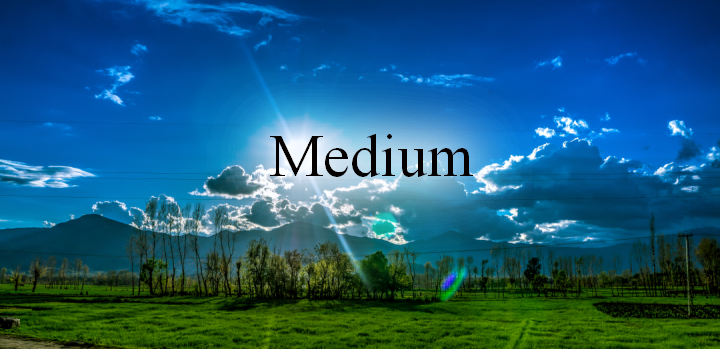
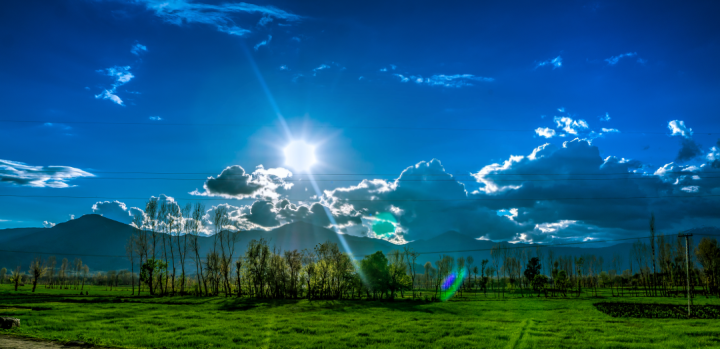
update

Changed region(s): [[0.3361, 0.2865, 0.7028, 0.6304]]

diff --git a/lesson11/css/small.css b/lesson11/css/small.css
@@ -156,7 +156,7 @@ body {
 /*/
     background-image: url("https://images.pexels.com/photos/1968740/pexels-photo-1968740.jpeg?auto=compress&cs=tinysrgb&dpr=3&h=750&w=1260");
 /*/
-    background-image: url("https://garlonuss.github.io/wdd230/lesson6/images/wdd230_image_franklin_small.png");
+    background-image: url("https://garlonuss.github.io/wdd230/lesson11/images/wdd230_image_franklin_small.png");
     background-position: center;
     background-size: 100%;
     width: 100%;
@@ -171,7 +171,7 @@ body {
     min-width: 50%;
     background-color: rgba(255, 255, 255, 0.5);
     margin: auto;
-    font-size: 10px;
+    font-size: 12px;
     border-radius: 0 0 7px 7px;
   }
   .stat {
@@ -224,16 +224,18 @@ body {
     position: absolute;
     top: 0;
     left: 0;
-    opacity: .65;
+    opacity: .55;
   }
   .wkd {
     position: absolute;
     animation: glow2 .5s ease-in-out infinite alternate;
+    /* text-shadow: 0 0 65 #fff; */
     top: 0%;
   }
   #t1, #t2, #t3, #t4, #t5 {
     position: absolute;
     animation: glow2 .5s ease-in-out infinite alternate;
+    /* text-shadow: 0 0 65 #fff; */
     top: 15%;
   }
   .clear {
@@ -345,19 +347,19 @@ nav ul li a {
 }
 @-webkit-keyframes glow2 {
   from {
-    text-shadow: 0 0 15px #fff, 0 0 35px #fff;
+    text-shadow: 0 0 25px #fff, 0 0 45px #fff;
   }
   to {
-    text-shadow: 0 0 40px #fff;
+    text-shadow: 0 0 75px #fff;
   }
 }
 
 @keyframes glow2 {
   from {
-    text-shadow: 0 0 15px #fff, 0 0 35px #fff;
+    text-shadow: 0 0 25px #fff, 0 0 45px #fff;
   }
   to {
-    text-shadow: 0 0 40px #fff;
+    text-shadow: 0 0 75px #fff;
   }
 }
 

diff --git a/lesson11/css/medium.css b/lesson11/css/medium.css
@@ -45,7 +45,7 @@
   #heroimg {
     height: 150px;
     border-radius: 7px;
-    background-image: url("https://garlonuss.github.io/wdd230/lesson6/images/wdd230_image_franklin_medium.png");
+    background-image: url("https://garlonuss.github.io/wdd230/lesson11/images/wdd230_image_franklin_medium.png");
       }
   .hero {
     position: relative;

diff --git a/lesson11/css/large.css b/lesson11/css/large.css
@@ -48,7 +48,7 @@
     max-height: 150px;
   }
   #heroimg {
-    background-image: url("https://garlonuss.github.io/wdd230/lesson6/images/wdd230_image_franklin_large.png");
+    background-image: url("https://garlonuss.github.io/wdd230/lesson11/images/wdd230_image_franklin_large.png");
   }
   .museum .stamp {
     max-width: 32%;
